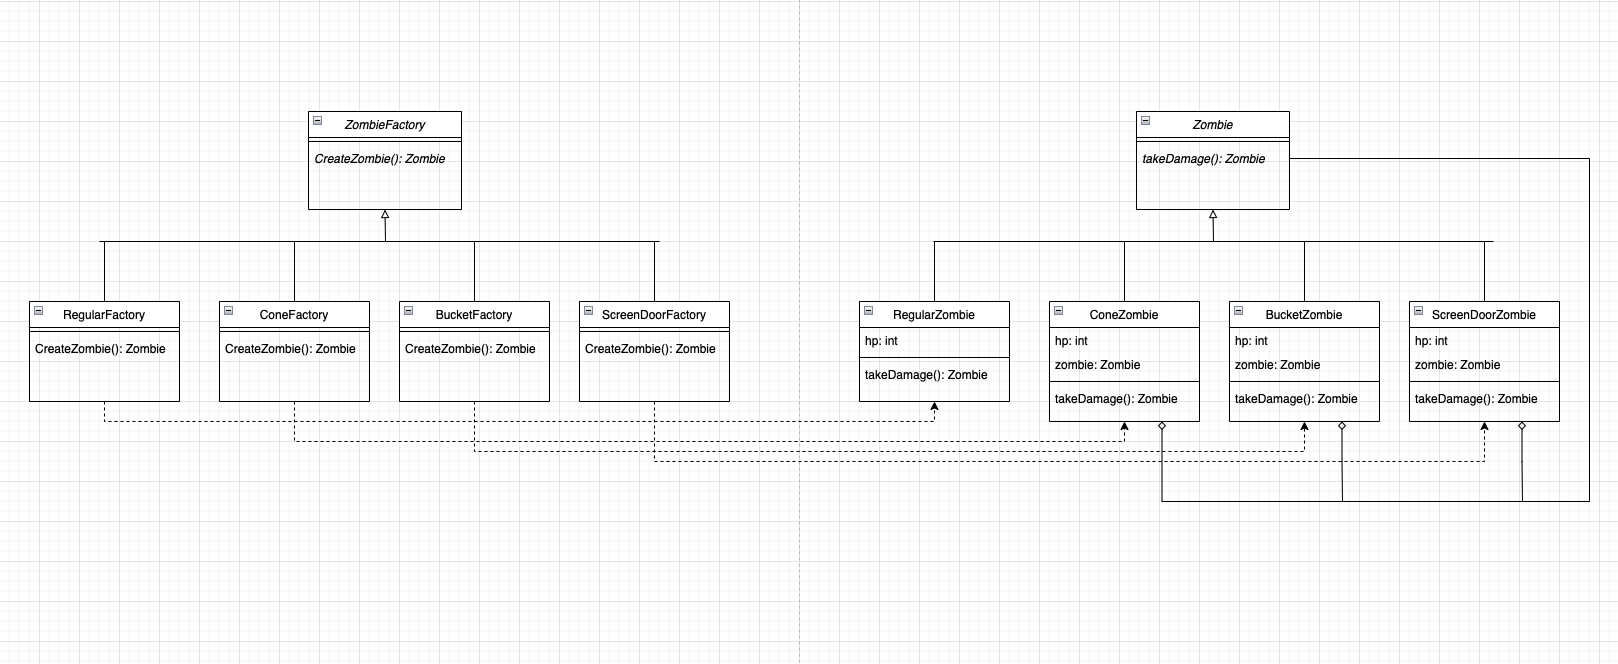
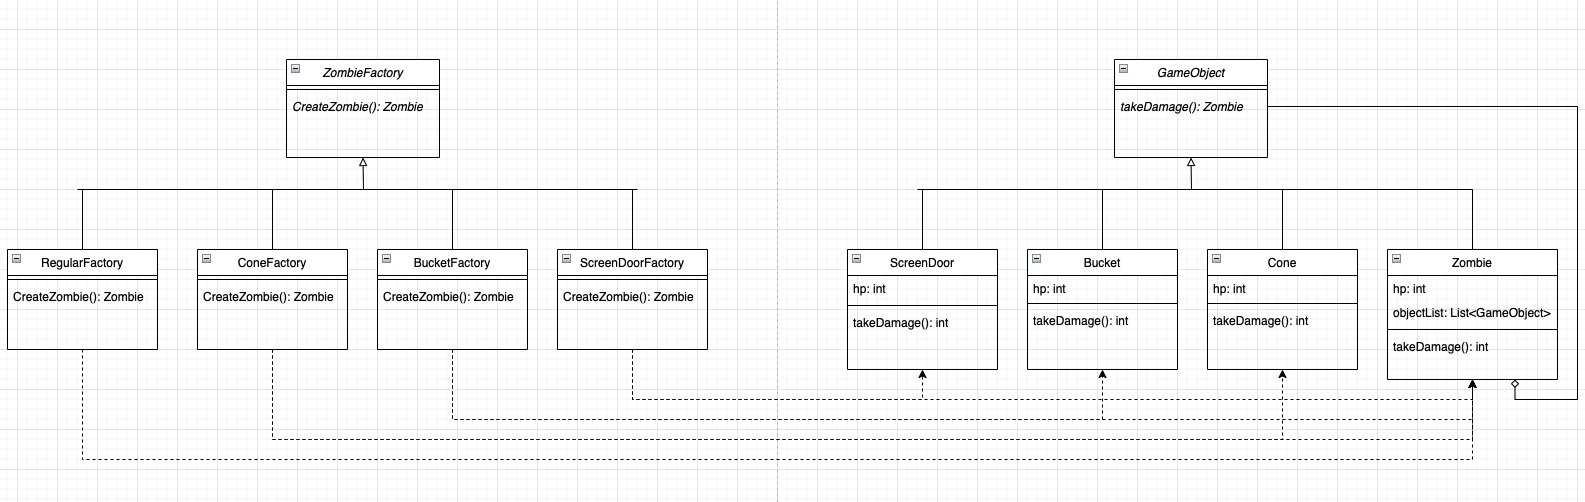
hw4 answer

diff --git a/homework/hw4/hw4.md b/homework/hw4/hw4.md
@@ -12,16 +12,16 @@ The program is using factory method pattern + composite pattern.
 | --- | ----------- |
 | Factory | ZombieFactory |
 | Concrete Factory | RegularFactory, ConeFactory, BucketFactory, ScreenDoorFactory |
-| Product | Zombie |
-| Concrete Product | RegularZombie, ConeZombie, BucketZombie, ScreenDoorZombie |
+| Product | GameObject |
+| Concrete Product | Zombie, Cone, Bucket, ScreenDoor |
 
 | Pattern | Class |
 | --- | ----------- |
-| Component | Zombie |
-| Leaf | RegularZombie |
-| Composite | ConeZombie, BucketZombie, ScreenDoorZombie |
+| Component | GameObject |
+| Leaf | Cone, Bucket, ScreenDoor |
+| Composite | Zombie |
 
-## 3 & 4
+## 3 
 In case IDE doesn't support the code, following are the UNIX commands needed to execute the program.
 ```bash
 cd src/
@@ -29,5 +29,12 @@ javac Main.java
 java Main
 ```
 
+## 4
+In `takeDamage()`, take the remaining damage on the object itself after damaging all child objects.
+
 ## 5
-Modify `takeDamage(int damage)` to `takeDamage(String damageType, int damage)`. In `ScreenDoorZombie` class, if damage type is watermelon, then the damage is directly inflicted onto child zombie. If child zombie hp <= 0, then `ScreenDoorZombie` dies. 
+Modify `takeDamage(int damage)` to `takeDamage(String damageType, int damage)`. In `ScreenDoor` class, if damage type is watermelon, simply return 0.
+
+*takeDamage() returns remaining hp of the object*
+
+*Please read the implementation to see how simply returning 0 will correctly output result while maintaining ScreenDoor object*
